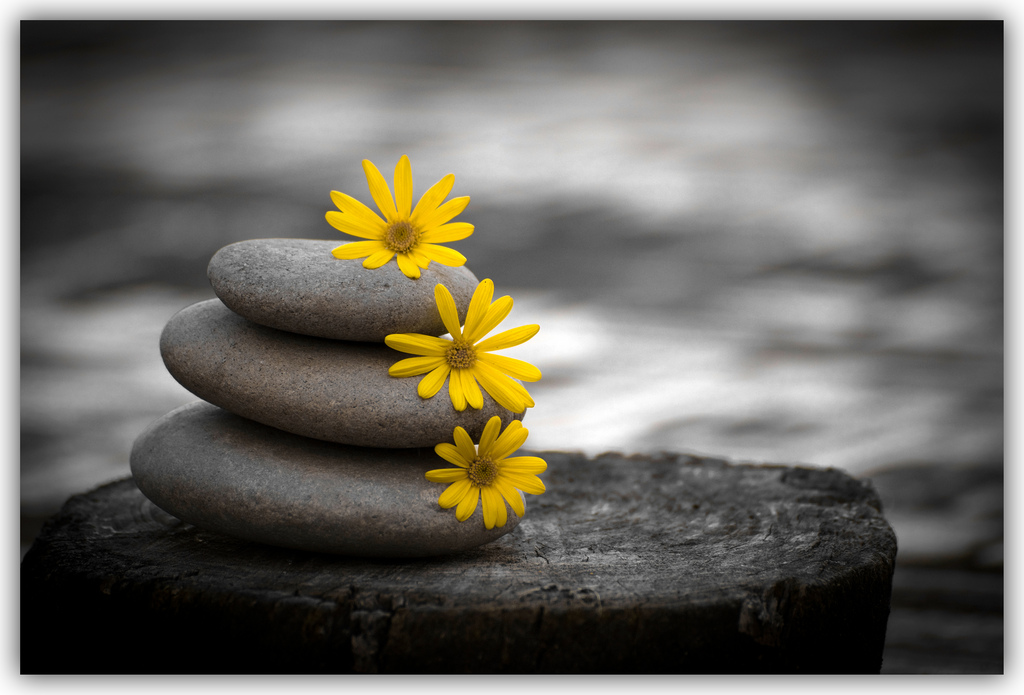
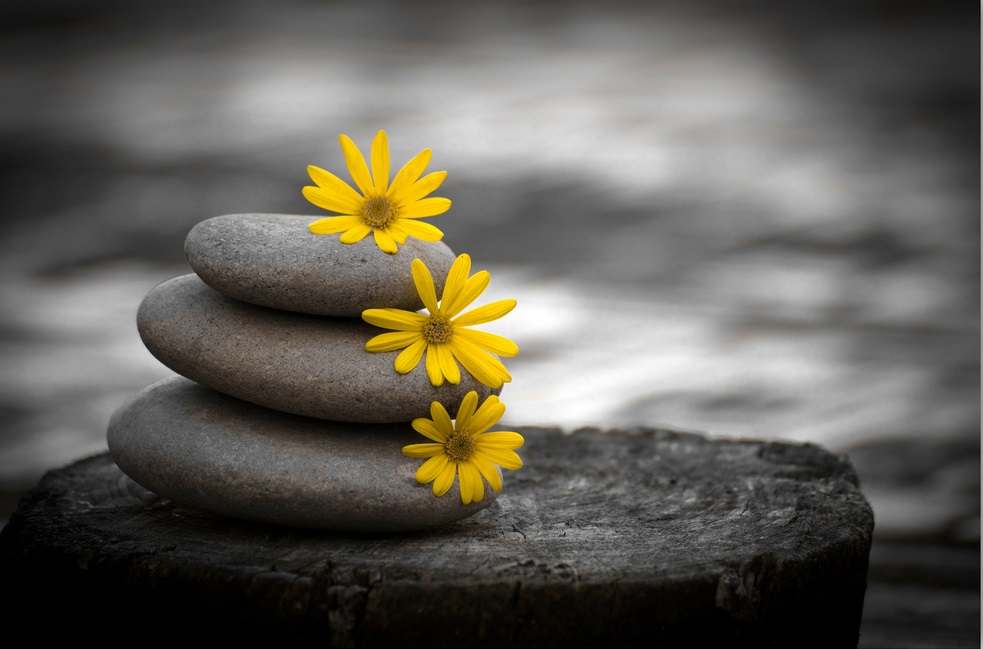
added project 1 and css

diff --git a/style.css b/style.css
@@ -1,5 +1,5 @@
 * {
-    font-family: sans-serif;
+    font-family: Arial, Helvetica, sans-serif;
     line-height: 1.618em;
     box-sizing: border-box;
     margin: 0;
@@ -14,7 +14,7 @@ h1, h2, h3 {
     color: #666;
 }
 
-header, main, footer {
+header, main {
     max-width: 1000px;
     margin: 0 auto;
 }
@@ -23,10 +23,10 @@ header, main, footer {
     background-image: url("./images/Rocks.jpg");
     background-repeat: no-repeat;
     background-size: cover;
-    min-height: 40em;
+    min-height: 37em;
     width: 100%;
     padding: 2em 0;
-    text-align: center;
+    text-align: left;
 }
 
 header h1 {
@@ -35,7 +35,9 @@ header h1 {
 }
 
 header span {
-    
+    font-size: 2em;
+    color: yellow;
+    text-shadow: 2px 2px 2px rgba(150, 150, 150, 1);
 }
 
 html {
@@ -43,19 +45,12 @@ html {
     margin-top: 2em;
 }
 
-main section a {
-    text-decoration: none;
-}
-
-main section a:visited {
-    color: midnightblue;
-}
-
 nav {
     position: fixed;
     top: 0;
     left: 0;
-    width: 100%;   
+    width: 100%; 
+    height: 3rem; 
     display: flex;
     flex-flow: row;
     justify-content: flex-end;
@@ -66,6 +61,7 @@ nav a {
     padding: .5em 2em;
     color: #fff;
     text-decoration: none;
+    font-weight: bold;
 }
 
 nav a:hover {
@@ -88,34 +84,70 @@ section ul {
     padding-left: 1.5em;
 }
 
-/*#aboutMe {
-    background-image: url("");
-    background-position: center;
-    background-size: auto;
-}*/
-
-.container {
+#projects .container {
     display: grid;
     grid-template-columns: repeat(3,1fr);
     grid-template-rows: auto;
     grid-column-gap: 1em;
+    max-width: 1000px;
+    width: 100%
 }
 
 .container article {
-    background: #ccc;
+    background: #666;
     padding: 1em;
+    color: #fff;
+}
+
+.container h3 {
+    color: #fff;
 }
 
 .container article img {
-    *width: 100%;
+    width: 100%;
     border: 1px solid #333;
+}
+
+
+.container article a {
+    color: #fff;
+    text-decoration: none;
+}
+
+.container article a:hover {
+    background: yellow;
+    color: black;
+}
+
+footer .container {
+    display: flex;
+    flex-flow: row;
+    justify-content: space-around;
+    column-gap: 2em;
+    width: 100%;
 }
 
 footer {
     margin-top: 2em;
     margin-bottom: 1em;
-    background: #666;
+    background: #333;
     color: #fff;
     padding: 1em;
     text-align: center;
+    font-weight: bold;
+}
+
+footer a {
+    padding: .5em 2em;
+    color: #fff;
+    text-decoration: none;
+    font-weight: bold;
+}
+
+
+
+footer a:hover {
+    background: yellow;
+    font-weight: bold;
+    color: #333;
 }

diff --git a/index.html b/index.html
@@ -18,22 +18,21 @@
     <main>
         <section id="aboutMe">
             <h2>About Me</h2>
-            <p>Squashy armchairs dirt on your nose brass scales crush the Sopophorous bean with flat side of silver dagger, releases juice better than cutting. Full moon Whomping Willow three turns should do it lemon drops. Locomotor trunks owl treats that will be 50 points, Mr. Potter. Witch Weekly, he will rise again and he will come for us, headmaster Erumpent horn. Fenrir Grayback horseless carriages ‘zis is a chance many would die for!</p>
-            
-            
-            
+            <p>Junior software developer, dedicated to constructing clean code and passionate about using extensive problem solving skills to create customer-centric solutions.</p>
+            <p>Currently enrolled in a full-time, 5-star-rated coding boot camp, learning agile full-stack software development from expert instructors and intensive hands-on projects. Planned, designed, and developed professionally programmed applications in collaborative team-based and independent settings, demonstrating the proficiency to earn Software Development Certificate.</p>       
         </section>
 
         <section id="projects">
             <h2>Projects</h2>
             <div class="container">
                 <article>
-                    <h3>Project 1</h3>
-                    <img src="./images/project1.jpg">
+                    <h3><a href="https://github.com/KaytiSwift/ReviewApp">Review Application</a></h3>
+                    <img src="./images/reviewApp.jpg">
                     <ul>
-                        <li>Skill</li>
-                        <li>Skill</li>
-                        <li>Skill</li>
+                        <li>ASP.Net</li>
+                        <li>MVC</li>
+                        <li>HTML5</li>
+                        <li>CSS3</li>
                     </ul>
                 </article>
                 <article>
@@ -64,9 +63,12 @@
         <a href="#contact">Contact Info</a>
     </nav>
 
-    <footer>
+    <footer id="contact">
+       <div class="container">
+            <a href="https://github.com/KaytiSwift">Github</a>
+            <a href="https://www.linkedin.com/in/kaytiswift/">LinkedIn</a>
+        </div>
         &copy; 2018 Kayti Swift
-        <p>My links to <a href="https://github.com/KaytiSwift">github</a> and <a href="https://www.linkedin.com/in/kaytiswift/">linkedin</a> </p>
     </footer>
     
 </body>
